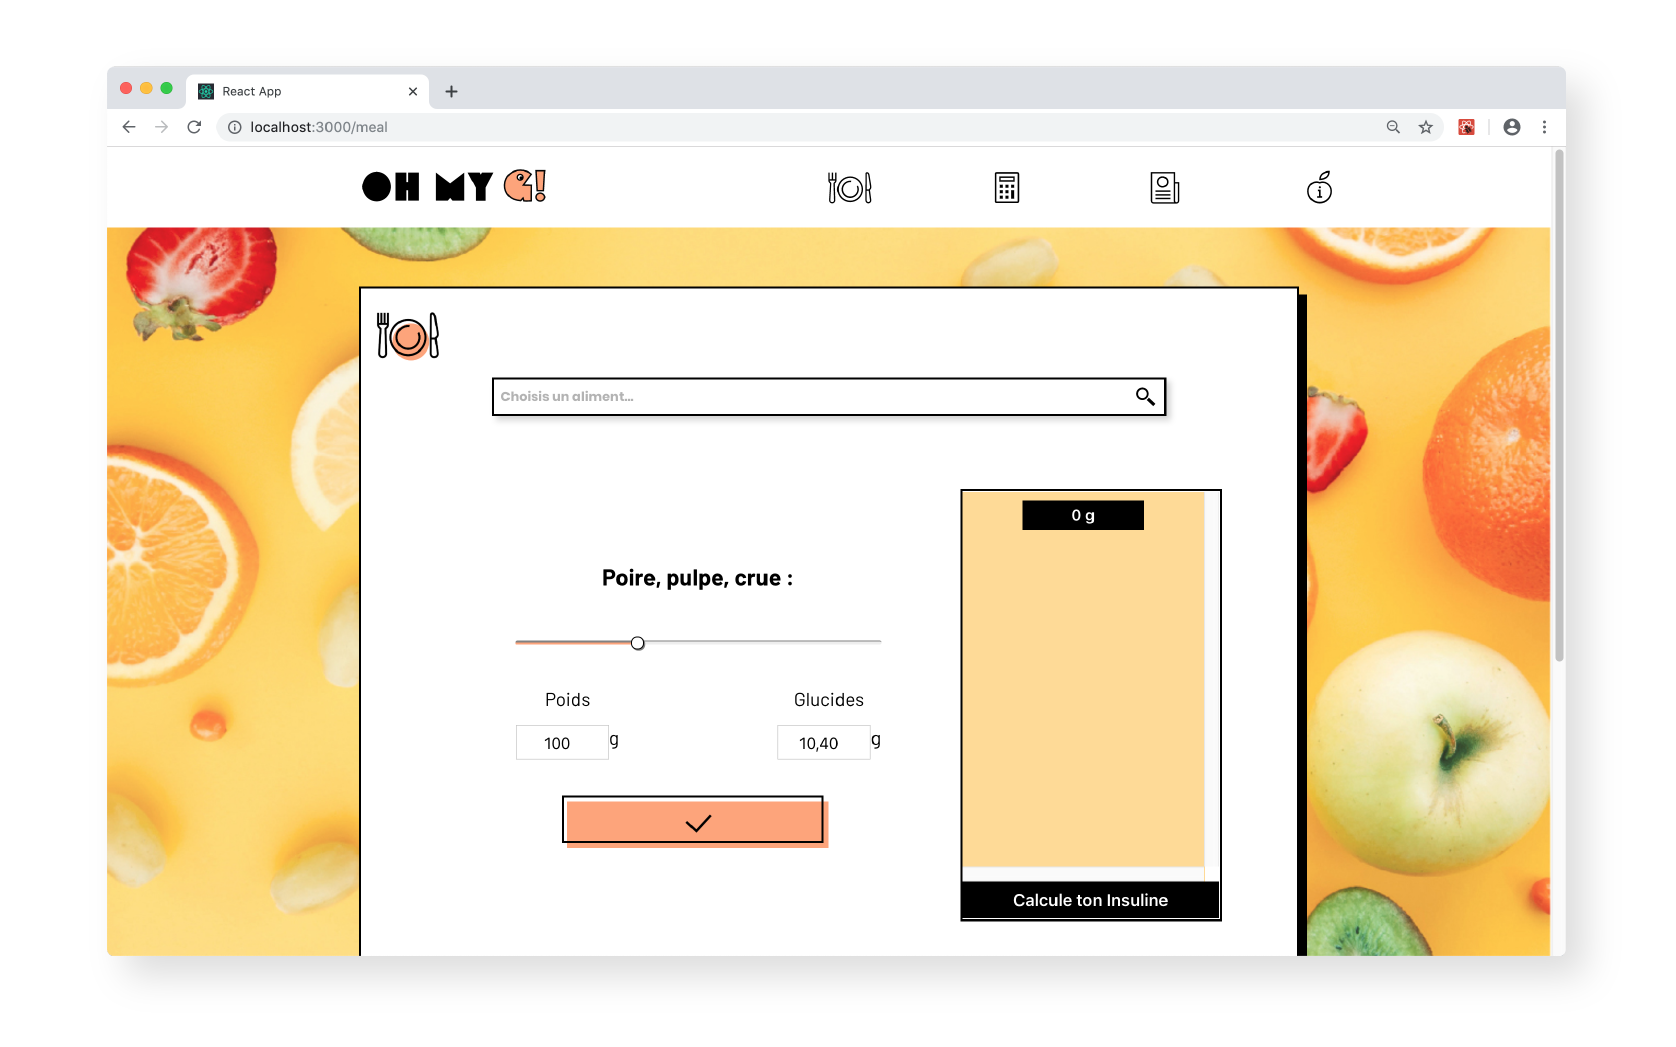
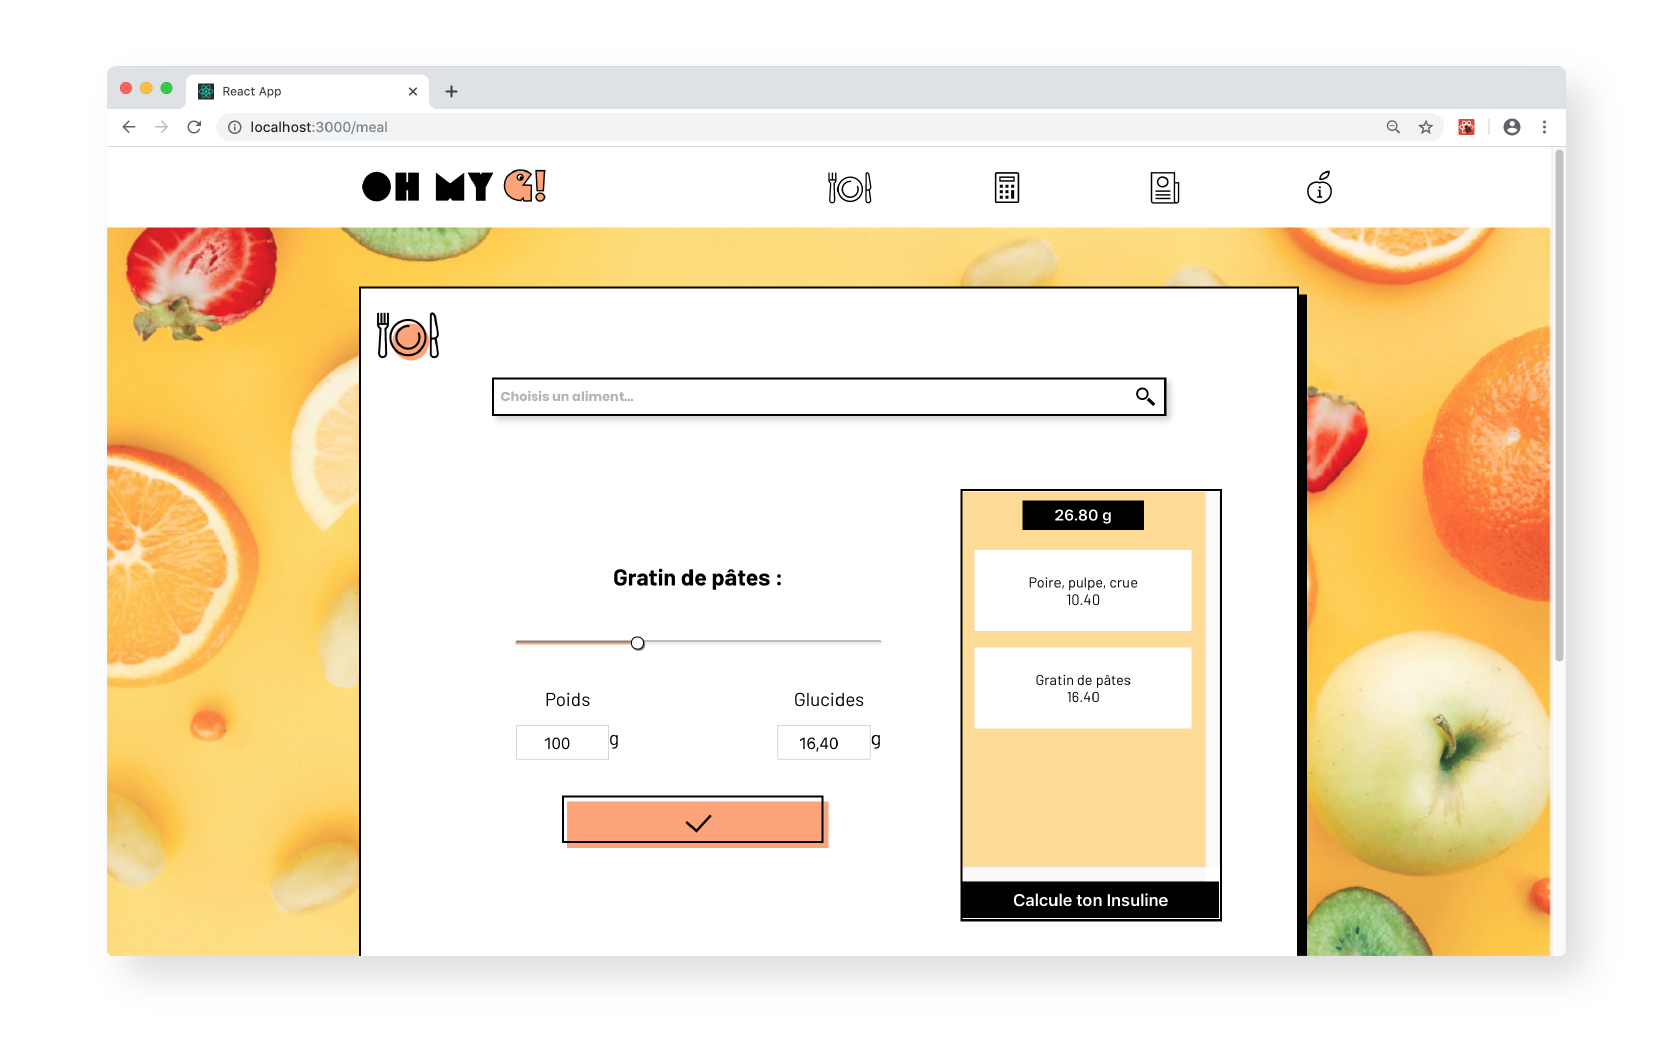
improved calculation image

Changed region(s): [[0.5585, 0.489, 0.7136, 0.703], [0.3723, 0.5501, 0.4654, 0.5807]]

diff --git a/ohmyg/README.md b/ohmyg/README.md
@@ -1,6 +1,6 @@
 # Oh my G! Project
 
-A web app which helps teenagers to deal with their diabete everyday. Features : a tool to calculate insuline, a tool to calculate glucidic meal income and a nutritional informations database.
+A web app which helps teenagers to deal with their diabetes everyday. Features : a tool to calculate insuline, a tool to calculate glucidic meal income and a nutritional informations database.
 
 #### Homepage
 ![](./public/images/ohmyg-github-homepage.png "HomePage")
